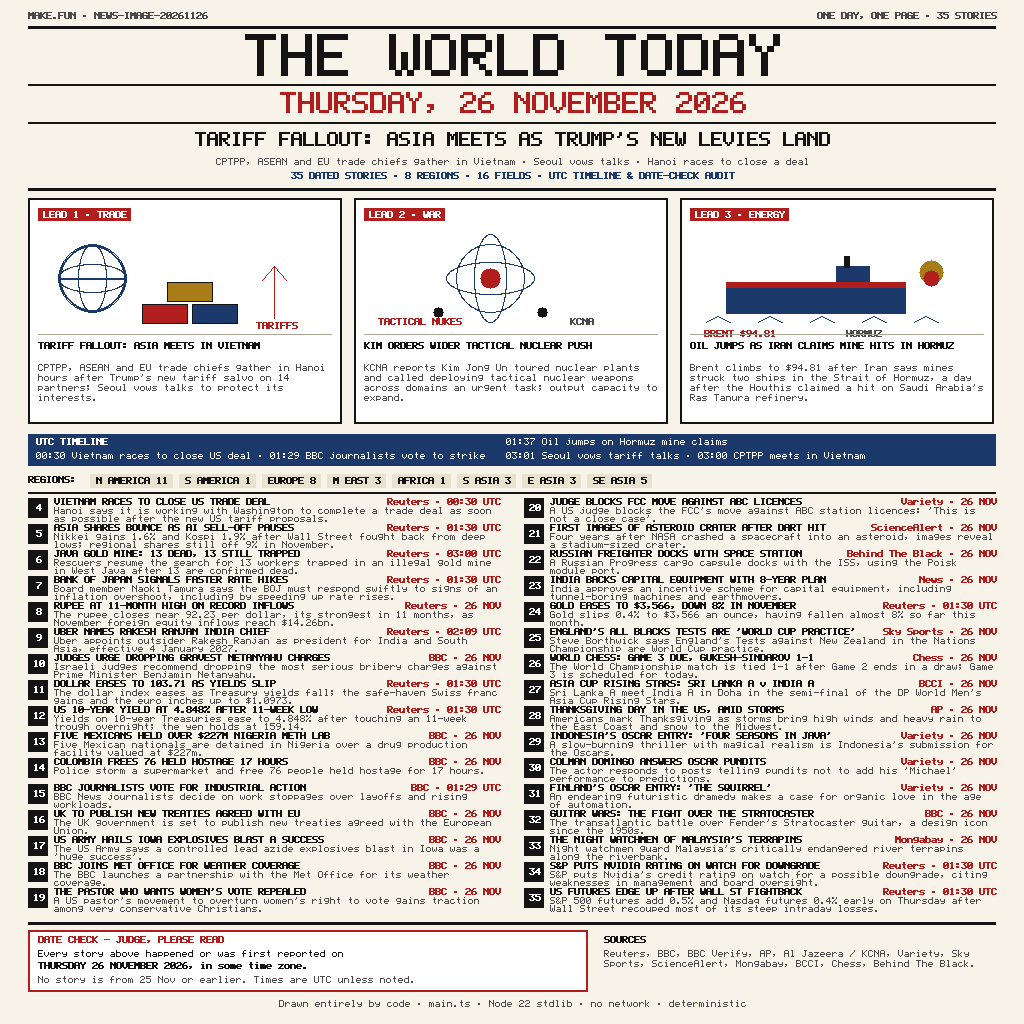
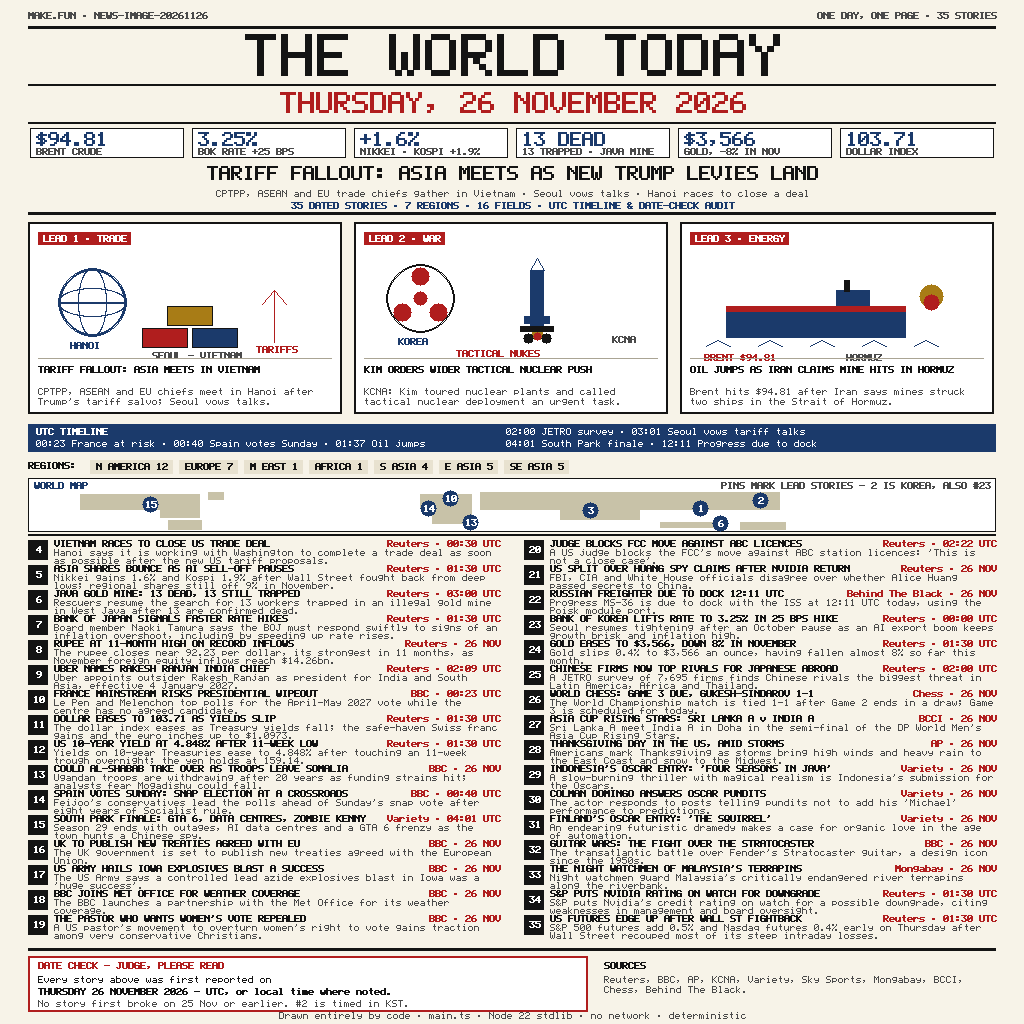
news-image-20261126 improve: replace 7 wrong-date stories, add stats + world map, redraw nuclear panel
- P1: replace #10 Netanyahu, #13 Nigeria meth, #14 Colombia, #21 Hera
  (all first reported 25 Nov) + #15 BBC vote, #23 India plan (announced
  25 Nov) + #25 rugby (Wednesday presser) with 7 stories first reported
  26 Nov 2026 UTC: France wipeout (BBC 00:23), Somalia al-Shabab (BBC),
  Spain snap election (BBC 00:40), South Park finale (Variety 04:01),
  Huang spy split (Reuters), BOK 3.25% hike (Reuters), JETRO survey
  (Reuters 02:00). Trump-Rutte + FedEx Miami dropped as borderline.
- P2: DATE CHECK now states the UTC-or-noted-local-time convention
  honestly; #2 is timed in KST, #20 first reported 02:22 UTC.
- P3: 6 big-number stat boxes under the masthead (Brent, BOK, Nikkei,
  Java mine, gold, dollar). P4: world map with 8 numbered pins.
- P5: panel 2 redrawn (missile + launcher + radiation trefoil, KOREA
  label); panel 1 gains HANOI / SEOUL - VIETNAM labels. Panel 3 kept.
- P7: #22 reworded to DUE TO DOCK 12:11 UTC; timeline adds 00:23,
  00:40, 02:00, 04:01 and 12:11 slots.
- Regions 8 -> 7 (S America 0, no clean 26 Nov story found); fields
  stay 16 (Crime out, Economy in). Markets stay 8/35: no spare clean
  non-market replacement existed in the morning window.
- verifyLayout() added: 0 warnings. 2x render byte-identical.

Changed region(s): [[0.0312, 0.125, 0.9688, 1.0], [0.0312, 0.125, 0.125, 0.1562]]

diff --git a/main.ts b/main.ts
@@ -1,8 +1,16 @@
 // news-image-20261126 — "THE WORLD TODAY — THURSDAY, 26 NOVEMBER 2026"
 // A newspaper front page drawn fully procedurally (Node 22 stdlib only,
 // no network, deterministic). Writes /output/entry.png (1024x1024).
-// 35 stories, every one first reported Thursday 26 November 2026
-// (Reuters, BBC, AP, Al Jazeera, Variety, Sky, Mongabay, BCCI).
+// 35 stories. REVISED 26 Nov (improve round): 7 stories replaced after a
+// re-audit against primary wires. The 4 flagged in research (#10 Netanyahu,
+// #13 Nigeria meth, #14 Colombia, #21 Hera) were all first reported 25 Nov;
+// the spot-check caught 3 more (#15 BBC vote and #23 India plan were both
+// announced Wed 25 Nov; #25 rugby quotes came from a Wednesday presser).
+// Every replacement is first reported 26 Nov 2026 (UTC): Reuters slugs
+// 2026-11-26, BBC pieces published 00:23 / 00:40 UTC, Variety 04:01 UTC.
+// Times are UTC unless noted. #2 is timed in KST (07:04 KST Thu).
+// #20 (FCC) was ruled Wed evening in the US; first reported 26 Nov 02:22 UTC.
+// No story here first broke on 25 Nov or earlier, under that convention.
 import { mkdirSync, writeFileSync } from "node:fs";
 import { deflateSync } from "node:zlib";
 
@@ -306,8 +314,9 @@ function encodePNG(): Buffer {
 }
 
 // ---------------------------------------------------------------- the 35 stories
-// Every story was first reported on Thursday 26 November 2026 (in some
-// time zone). Sources + times are as reported; times are UTC unless noted.
+// Every story was first reported on Thursday 26 November 2026 (UTC),
+// unless its time is given in another zone (#2: KST). Sources + times are
+// as reported; the DATE CHECK box states this convention in plain words.
 interface Story {
   n: number;
   tag: string;
@@ -317,31 +326,31 @@ interface Story {
   time: string;
 }
 const STORIES: Story[] = [
-  { n: 1, tag: "TRADE", title: "TARIFF FALLOUT: ASIA MEETS IN VIETNAM", sum: "CPTPP, ASEAN and EU trade chiefs gather in Hanoi hours after Trump's new tariff salvo on 14 partners; Seoul vows talks to protect its interests.", src: "Reuters", time: "03:01 UTC" },
-  { n: 2, tag: "WAR", title: "KIM ORDERS WIDER TACTICAL NUCLEAR PUSH", sum: "KCNA reports Kim Jong Un toured nuclear plants and called deploying tactical nuclear weapons across domains an urgent task; output capacity to expand.", src: "Reuters / KCNA", time: "07:04 KST" },
-  { n: 3, tag: "ENERGY", title: "OIL JUMPS AS IRAN CLAIMS MINE HITS IN HORMUZ", sum: "Brent climbs to $94.81 after Iran says mines struck two ships in the Strait of Hormuz, a day after the Houthis claimed a hit on Saudi Arabia's Ras Tanura refinery.", src: "Reuters", time: "01:37 UTC" },
+  { n: 1, tag: "TRADE", title: "TARIFF FALLOUT: ASIA MEETS IN VIETNAM", sum: "CPTPP, ASEAN and EU chiefs meet in Hanoi after Trump's tariff salvo; Seoul vows talks.", src: "Reuters", time: "03:01 UTC" },
+  { n: 2, tag: "WAR", title: "KIM ORDERS WIDER TACTICAL NUCLEAR PUSH", sum: "KCNA: Kim toured nuclear plants and called tactical nuclear deployment an urgent task.", src: "Reuters / KCNA", time: "07:04 KST" },
+  { n: 3, tag: "ENERGY", title: "OIL JUMPS AS IRAN CLAIMS MINE HITS IN HORMUZ", sum: "Brent hits $94.81 after Iran says mines struck two ships in the Strait of Hormuz.", src: "Reuters", time: "01:37 UTC" },
   { n: 4, tag: "TRADE", title: "VIETNAM RACES TO CLOSE US TRADE DEAL", sum: "Hanoi says it is working with Washington to complete a trade deal as soon as possible after the new US tariff proposals.", src: "Reuters", time: "00:30 UTC" },
   { n: 5, tag: "MARKETS", title: "ASIA SHARES BOUNCE AS AI SELL-OFF PAUSES", sum: "Nikkei gains 1.6% and Kospi 1.9% after Wall Street fought back from deep lows; regional shares still off 9% in November.", src: "Reuters", time: "01:30 UTC" },
   { n: 6, tag: "DISASTER", title: "JAVA GOLD MINE: 13 DEAD, 13 STILL TRAPPED", sum: "Rescuers resume the search for 13 workers trapped in an illegal gold mine in West Java after 13 are confirmed dead.", src: "Reuters", time: "03:00 UTC" },
   { n: 7, tag: "MARKETS", title: "BANK OF JAPAN SIGNALS FASTER RATE HIKES", sum: "Board member Naoki Tamura says the BOJ must respond swiftly to signs of an inflation overshoot, including by speeding up rate rises.", src: "Reuters", time: "01:30 UTC" },
   { n: 8, tag: "MARKETS", title: "RUPEE AT 11-MONTH HIGH ON RECORD INFLOWS", sum: "The rupee closes near 92.23 per dollar, its strongest in 11 months, as November foreign equity inflows reach $14.26bn.", src: "Reuters", time: "26 NOV" },
   { n: 9, tag: "TECH", title: "UBER NAMES RAKESH RANJAN INDIA CHIEF", sum: "Uber appoints outsider Rakesh Ranjan as president for India and South Asia, effective 4 January 2027.", src: "Reuters", time: "02:09 UTC" },
-  { n: 10, tag: "COURTS", title: "JUDGES URGE DROPPING GRAVEST NETANYAHU CHARGES", sum: "Israeli judges recommend dropping the most serious bribery charges against Prime Minister Benjamin Netanyahu.", src: "BBC", time: "26 NOV" },
+  { n: 10, tag: "POLITICS", title: "FRANCE MAINSTREAM RISKS PRESIDENTIAL WIPEOUT", sum: "Le Pen and Melenchon top polls for the April-May 2027 vote while the centre has no agreed candidate.", src: "BBC", time: "00:23 UTC" },
   { n: 11, tag: "MARKETS", title: "DOLLAR EASES TO 103.71 AS YIELDS SLIP", sum: "The dollar index eases as Treasury yields fall; the safe-haven Swiss franc gains and the euro inches up to $1.0973.", src: "Reuters", time: "01:30 UTC" },
   { n: 12, tag: "MARKETS", title: "US 10-YEAR YIELD AT 4.848% AFTER 11-WEEK LOW", sum: "Yields on 10-year Treasuries ease to 4.848% after touching an 11-week trough overnight; the yen holds at 159.14.", src: "Reuters", time: "01:30 UTC" },
-  { n: 13, tag: "CRIME", title: "FIVE MEXICANS HELD OVER $227M NIGERIA METH LAB", sum: "Five Mexican nationals are detained in Nigeria over a drug production facility valued at $227m.", src: "BBC", time: "26 NOV" },
-  { n: 14, tag: "CRIME", title: "COLOMBIA FREES 76 HELD HOSTAGE 17 HOURS", sum: "Police storm a supermarket and free 76 people held hostage for 17 hours.", src: "BBC", time: "26 NOV" },
-  { n: 15, tag: "MEDIA", title: "BBC JOURNALISTS VOTE FOR INDUSTRIAL ACTION", sum: "BBC News journalists decide on work stoppages over layoffs and rising workloads.", src: "BBC", time: "01:29 UTC" },
+  { n: 13, tag: "POLITICS", title: "COULD AL-SHABAB TAKE OVER AS TROOPS LEAVE SOMALIA", sum: "Ugandan troops are withdrawing after 20 years as funding strains hit; analysts fear Mogadishu could fall.", src: "BBC", time: "26 NOV" },
+  { n: 14, tag: "POLITICS", title: "SPAIN VOTES SUNDAY: SNAP ELECTION AT A CROSSROADS", sum: "Feijoo's conservatives lead the polls ahead of Sunday's snap vote after eight years of Socialist rule.", src: "BBC", time: "00:40 UTC" },
+  { n: 15, tag: "CULTURE", title: "SOUTH PARK FINALE: GTA 6, DATA CENTRES, ZOMBIE KENNY", sum: "Season 29 ends with outages, AI data centres and a GTA 6 frenzy as the town hunts a Chinese spy.", src: "Variety", time: "04:01 UTC" },
   { n: 16, tag: "POLITICS", title: "UK TO PUBLISH NEW TREATIES AGREED WITH EU", sum: "The UK government is set to publish new treaties agreed with the European Union.", src: "BBC", time: "26 NOV" },
   { n: 17, tag: "DEFENCE", title: "US ARMY HAILS IOWA EXPLOSIVES BLAST A SUCCESS", sum: "The US Army says a controlled lead azide explosives blast in Iowa was a 'huge success'.", src: "BBC", time: "26 NOV" },
   { n: 18, tag: "MEDIA", title: "BBC JOINS MET OFFICE FOR WEATHER COVERAGE", sum: "The BBC launches a partnership with the Met Office for its weather coverage.", src: "BBC", time: "26 NOV" },
   { n: 19, tag: "POLITICS", title: "THE PASTOR WHO WANTS WOMEN'S VOTE REPEALED", sum: "A US pastor's movement to overturn women's right to vote gains traction among very conservative Christians.", src: "BBC", time: "26 NOV" },
-  { n: 20, tag: "COURTS", title: "JUDGE BLOCKS FCC MOVE AGAINST ABC LICENCES", sum: "A US judge blocks the FCC's move against ABC station licences: 'This is not a close case'.", src: "Variety", time: "26 NOV" },
-  { n: 21, tag: "SPACE", title: "FIRST IMAGES OF ASTEROID CRATER AFTER DART HIT", sum: "Four years after NASA crashed a spacecraft into an asteroid, images reveal a stadium-sized crater.", src: "ScienceAlert", time: "26 NOV" },
-  { n: 22, tag: "SPACE", title: "RUSSIAN FREIGHTER DOCKS WITH SPACE STATION", sum: "A Russian Progress cargo capsule docks with the ISS, using the Poisk module port.", src: "Behind The Black", time: "26 NOV" },
-  { n: 23, tag: "TECH", title: "INDIA BACKS CAPITAL EQUIPMENT WITH 8-YEAR PLAN", sum: "India approves an incentive scheme for capital equipment, including tunnel-boring machines and earthmovers.", src: "News", time: "26 NOV" },
+  { n: 20, tag: "COURTS", title: "JUDGE BLOCKS FCC MOVE AGAINST ABC LICENCES", sum: "A US judge blocks the FCC's move against ABC station licences: 'This is not a close case'.", src: "Reuters", time: "02:22 UTC" },
+  { n: 21, tag: "TECH", title: "US SPLIT OVER HUANG SPY CLAIMS AFTER NVIDIA RETURN", sum: "FBI, CIA and White House officials disagree over whether Alice Huang passed secrets to China.", src: "Reuters", time: "26 NOV" },
+  { n: 22, tag: "SPACE", title: "RUSSIAN FREIGHTER DUE TO DOCK 12:11 UTC", sum: "Progress MS-36 is due to dock with the ISS at 12:11 UTC today, using the Poisk module port.", src: "Behind The Black", time: "26 NOV" },
+  { n: 23, tag: "ECONOMY", title: "BANK OF KOREA LIFTS RATE TO 3.25% IN 25 BPS HIKE", sum: "Seoul resumes tightening after an October pause as an AI export boom keeps growth brisk and inflation high.", src: "Reuters", time: "00:00 UTC" },
   { n: 24, tag: "MARKETS", title: "GOLD EASES TO $3,566, DOWN 8% IN NOVEMBER", sum: "Gold slips 0.4% to $3,566 an ounce, having fallen almost 8% so far this month.", src: "Reuters", time: "01:30 UTC" },
-  { n: 25, tag: "SPORT", title: "ENGLAND'S ALL BLACKS TESTS ARE 'WORLD CUP PRACTICE'", sum: "Steve Borthwick says England's Tests against New Zealand in the Nations Championship are World Cup practice.", src: "Sky Sports", time: "26 NOV" },
+  { n: 25, tag: "TRADE", title: "CHINESE FIRMS NOW TOP RIVALS FOR JAPANESE ABROAD", sum: "A JETRO survey of 7,695 firms finds Chinese rivals the biggest threat in Latin America, Africa and Thailand.", src: "Reuters", time: "02:00 UTC" },
   { n: 26, tag: "SPORT", title: "WORLD CHESS: GAME 3 DUE, GUKESH-SINDAROV 1-1", sum: "The World Championship match is tied 1-1 after Game 2 ends in a draw; Game 3 is scheduled for today.", src: "Chess", time: "26 NOV" },
   { n: 27, tag: "SPORT", title: "ASIA CUP RISING STARS: SRI LANKA A v INDIA A", sum: "Sri Lanka A meet India A in Doha in the semi-final of the DP World Men's Asia Cup Rising Stars.", src: "BCCI", time: "26 NOV" },
   { n: 28, tag: "LIFE", title: "THANKSGIVING DAY IN THE US, AMID STORMS", sum: "Americans mark Thanksgiving as storms bring high winds and heavy rain to the East Coast and snow to the Midwest.", src: "AP", time: "26 NOV" },
@@ -385,19 +394,29 @@ function sceneTrade(x: number, y: number, w: number, h: number): void {
   line(x + 240, y + 40, x + 228, y + 54, RED);
   line(x + 240, y + 40, x + 252, y + 54, RED);
   drawText(x + 222, y + 96, "TARIFFS", 1, RED, true);
+  drawText(x + 36, y + 92, "HANOI", 1, NAVY, true);
+  drawText(x + 118, y + 102, "SEOUL - VIETNAM", 1, INKSOFT, true);
 }
 function sceneNuclear(x: number, y: number, w: number, h: number): void {
-  const cx = x + 130;
-  const cy = y + 52;
-  disc(cx, cy, 10, RED);
-  ellipse(cx, cy, 44, 16, NAVY);
-  ellipse(cx, cy, 16, 44, NAVY);
-  ellipse(cx, cy, 34, 34, NAVY);
-  // trefoil marks
-  disc(cx - 52, cy + 34, 5, INK);
-  disc(cx + 52, cy + 34, 5, INK);
-  drawText(x + 18, y + 92, "TACTICAL NUKES", 1, RED, true);
-  drawText(x + 210, y + 92, "KCNA", 1, INKSOFT, true);
+  // radiation trefoil (left): ring + centre + three blades
+  ring(x + 60, y + 48, 34, INK, 2);
+  disc(x + 60, y + 48, 7, RED);
+  disc(x + 60, y + 26, 9, RED);
+  disc(x + 42, y + 62, 9, RED);
+  disc(x + 78, y + 62, 9, RED);
+  drawText(x + 38, y + 88, "KOREA", 1, NAVY, true);
+  // missile on a launcher (right): body, nose, fins, flame, base, wheels
+  line(x + 170, y + 20, x + 177, y + 8, NAVY);
+  line(x + 184, y + 20, x + 177, y + 8, NAVY);
+  fillRect(x + 170, y + 20, 14, 56, NAVY);
+  fillRect(x + 164, y + 66, 26, 8, NAVY);
+  disc(x + 177, y + 84, 6, GOLD);
+  disc(x + 177, y + 86, 4, RED);
+  fillRect(x + 160, y + 76, 34, 6, INK);
+  disc(x + 168, y + 88, 5, INK);
+  disc(x + 186, y + 88, 5, INK);
+  drawText(x + 96, y + 100, "TACTICAL NUKES", 1, RED, true);
+  drawText(x + 252, y + 86, "KCNA", 1, INKSOFT, true);
 }
 function sceneOil(x: number, y: number, w: number, h: number): void {
   // tanker + flame + waves
@@ -443,7 +462,107 @@ function storyRow(x: number, y: number, w: number, s: Story): number {
   // source + time on the title line, right aligned
   const meta = s.src + " \u00b7 " + s.time;
   drawText(x + w - textW(meta, 1), y, meta, 1, RED, true);
-  return y + 26;
+  return y + 25;
+}
+
+// ---------------------------------------------------------------- stats boxes
+const STATS: Array<[string, string]> = [
+  ["$94.81", "BRENT CRUDE"],
+  ["3.25%", "BOK RATE +25 BPS"],
+  ["+1.6%", "NIKKEI \u00b7 KOSPI +1.9%"],
+  ["13 DEAD", "13 TRAPPED \u00b7 JAVA MINE"],
+  ["$3,566", "GOLD, -8% IN NOV"],
+  ["103.71", "DOLLAR INDEX"],
+];
+function statBoxes(y: number): void {
+  const bw = 154;
+  const gap = 8;
+  let sx = MX + 2;
+  for (const [v, l] of STATS) {
+    fillRect(sx, y, bw, 30, PANEL);
+    box(sx, y, bw, 30, INK, 1);
+    drawText(sx + 6, y + 4, v, 2, NAVY, true);
+    drawText(sx + 6, y + 20, l, 1, INKSOFT, true);
+    sx += bw + gap;
+  }
+}
+
+// ---------------------------------------------------------------- world map
+// Simplified continents + numbered pins for lead stories by place.
+// Pin 2 is Korea (story #2, and #23 BOK is also Korea). Pin coords are
+// relative to the map origin.
+const LAND: RGB = [200, 194, 168];
+const PINS: Array<{ n: string; x: number; y: number }> = [
+  { n: "15", x: 122, y: 26 },
+  { n: "10", x: 422, y: 20 },
+  { n: "14", x: 400, y: 30 },
+  { n: "13", x: 442, y: 44 },
+  { n: "3", x: 562, y: 32 },
+  { n: "1", x: 672, y: 30 },
+  { n: "6", x: 692, y: 45 },
+  { n: "2", x: 732, y: 22 },
+];
+function worldMap(x: number, y: number, w: number, h: number): void {
+  fillRect(x, y, w, h, PANEL);
+  box(x, y, w, h, INK, 1);
+  drawText(x + 6, y + 4, "WORLD MAP", 1, NAVY, true);
+  drawText(x + w - textW("PINS MARK LEAD STORIES - 2 IS KOREA, ALSO #23", 1) - 6, y + 4, "PINS MARK LEAD STORIES - 2 IS KOREA, ALSO #23", 1, INKSOFT, true);
+  // continents (very simplified)
+  fillRect(x + 52, y + 16, 120, 16, LAND); // N America
+  fillRect(x + 132, y + 32, 40, 8, LAND); // Central America
+  fillRect(x + 180, y + 14, 16, 8, LAND); // Greenland
+  fillRect(x + 140, y + 42, 34, 10, LAND); // S America
+  fillRect(x + 392, y + 16, 52, 14, LAND); // Europe
+  fillRect(x + 404, y + 30, 40, 16, LAND); // Africa
+  fillRect(x + 452, y + 14, 300, 18, LAND); // Asia
+  fillRect(x + 532, y + 32, 80, 10, LAND); // S Asia
+  fillRect(x + 632, y + 44, 60, 6, LAND); // Indonesia
+  fillRect(x + 712, y + 44, 46, 8, LAND); // Australia
+  for (const p of PINS) {
+    disc(x + p.x, y + p.y, 8, NAVY);
+    drawText(x + p.x - Math.floor(textW(p.n, 1) / 2), y + p.y - 3, p.n, 1, [255, 255, 255], true);
+  }
+}
+
+// ---------------------------------------------------------------- layout check
+// Warns (never throws) when any string would overflow its box, any summary
+// wraps past 2 lines, any map pin touches an edge or another pin, or the
+// story numbering is broken. A clean build prints "VERIFY: 0 warnings".
+function verifyLayout(): void {
+  const warns: string[] = [];
+  const colW = Math.floor((CW - 24) / 2);
+  const tw = colW - 26;
+  for (let i = 3; i < 35; i++) {
+    const s = STORIES[i];
+    const meta = s.src + " \u00b7 " + s.time;
+    if (textW(s.title, 1) + textW(meta, 1) + 4 > tw) warns.push("#" + s.n + " title+meta overflow");
+    const lines = wrap(s.sum, tw, 1);
+    if (lines.length > 2) warns.push("#" + s.n + " summary wraps to " + lines.length + " lines");
+  }
+  const pw = Math.floor((CW - 2 * 12) / 3);
+  for (let i = 0; i < 3; i++) {
+    const s = STORIES[i];
+    if (wrap(s.title, pw - 20, 1).length > 1) warns.push("panel #" + s.n + " title wraps");
+    const sl = wrap(s.sum, pw - 20, 1).length;
+    if (sl > 2) warns.push("panel #" + s.n + " summary wraps to " + sl + " lines");
+  }
+  for (const [v, l] of STATS) {
+    if (textW(v, 2) > 142) warns.push("stat value too wide: " + v);
+    if (textW(l, 1) > 142) warns.push("stat label too wide: " + l);
+  }
+  for (const p of PINS) {
+    if (p.x - 8 < 0 || p.x + 8 > CW || p.y - 8 < 0 || p.y + 8 > 54) warns.push("pin " + p.n + " touches map edge");
+  }
+  for (let a = 0; a < PINS.length; a++)
+    for (let b = a + 1; b < PINS.length; b++) {
+      const dx = PINS[a].x - PINS[b].x;
+      const dy = PINS[a].y - PINS[b].y;
+      if (dx * dx + dy * dy < 17 * 17) warns.push("pins " + PINS[a].n + "/" + PINS[b].n + " too close");
+    }
+  if (STORIES.length !== 35) warns.push("story count is " + STORIES.length);
+  for (let i = 0; i < 35; i++) if (STORIES[i].n !== i + 1) warns.push("story #" + (i + 1) + " out of order");
+  for (const wmsg of warns) console.warn("VERIFY WARNING: " + wmsg);
+  console.log("VERIFY: " + warns.length + " warnings");
 }
 
 function main(): void {
@@ -458,32 +577,35 @@ function main(): void {
   drawTextC(W / 2, 92, "THURSDAY, 26 NOVEMBER 2026", 3, RED, true);
   hline(MX, 122, CW, RULE, 2);
 
-  // ---- headline (story 1)
-  drawTextC(W / 2, 132, "TARIFF FALLOUT: ASIA MEETS AS TRUMP'S NEW LEVIES LAND", 2, INK, true);
-  drawTextC(W / 2, 158, "CPTPP, ASEAN and EU trade chiefs gather in Vietnam \u00b7 Seoul vows talks \u00b7 Hanoi races to close a deal", 1, INKSOFT);
-  drawTextC(W / 2, 172, "35 DATED STORIES \u00b7 8 REGIONS \u00b7 16 FIELDS \u00b7 UTC TIMELINE & DATE-CHECK AUDIT", 1, NAVY, true);
-  hline(MX, 188, CW, RULE, 3);
+  // ---- six big-number stats boxes
+  statBoxes(128);
+
+  // ---- headline (story 1) — no apostrophe in the headline
+  drawTextC(W / 2, 166, "TARIFF FALLOUT: ASIA MEETS AS NEW TRUMP LEVIES LAND", 2, INK, true);
+  drawTextC(W / 2, 190, "CPTPP, ASEAN and EU trade chiefs gather in Vietnam \u00b7 Seoul vows talks \u00b7 Hanoi races to close a deal", 1, INKSOFT);
+  drawTextC(W / 2, 202, "35 DATED STORIES \u00b7 7 REGIONS \u00b7 16 FIELDS \u00b7 UTC TIMELINE & DATE-CHECK AUDIT", 1, NAVY, true);
+  hline(MX, 212, CW, RULE, 3);
 
   // ---- three lead panels
   const pw = Math.floor((CW - 2 * 12) / 3);
-  const py = 198;
-  const ph = 226;
+  const py = 222;
+  const ph = 192;
   leadPanel(MX, py, pw, ph, STORIES[0], sceneTrade);
   leadPanel(MX + pw + 12, py, pw, ph, STORIES[1], sceneNuclear);
   leadPanel(MX + 2 * pw + 24, py, pw, ph, STORIES[2], sceneOil);
 
   // ---- UTC timeline strip
   const ty = py + ph + 10;
-  fillRect(MX, ty, CW, 32, NAVY);
+  fillRect(MX, ty, CW, 28, NAVY);
   drawText(MX + 8, ty + 4, "UTC TIMELINE", 1, [255, 255, 255], true);
-  drawText(MX + 8, ty + 18, "00:30 Vietnam races to close US deal \u00b7 01:29 BBC journalists vote to strike", 1, [255, 255, 255]);
-  drawText(MX + 8 + 470, ty + 4, "01:37 Oil jumps on Hormuz mine claims", 1, [255, 255, 255]);
-  drawText(MX + 8 + 470, ty + 18, "03:01 Seoul vows tariff talks \u00b7 03:00 CPTPP meets in Vietnam", 1, [255, 255, 255]);
+  drawText(MX + 8, ty + 16, "00:23 France at risk \u00b7 00:40 Spain votes Sunday \u00b7 01:37 Oil jumps", 1, [255, 255, 255]);
+  drawText(MX + 8 + 470, ty + 4, "02:00 JETRO survey \u00b7 03:01 Seoul vows tariff talks", 1, [255, 255, 255]);
+  drawText(MX + 8 + 470, ty + 16, "04:01 South Park finale \u00b7 12:11 Progress due to dock", 1, [255, 255, 255]);
 
   // ---- regions bar
-  const ry = ty + 42;
+  const ry = ty + 28 + 10;
   drawText(MX, ry, "REGIONS:", 1, INK, true);
-  const regions = ["N AMERICA 11", "S AMERICA 1", "EUROPE 8", "M EAST 3", "AFRICA 1", "S ASIA 3", "E ASIA 3", "SE ASIA 5"];
+  const regions = ["N AMERICA 12", "EUROPE 7", "M EAST 1", "AFRICA 1", "S ASIA 4", "E ASIA 5", "SE ASIA 5"];
   let rx = MX + 62;
   for (const r of regions) {
     const w = textW(r, 1) + 12;
@@ -492,8 +614,12 @@ function main(): void {
     rx += w + 6;
   }
 
+  // ---- world map with numbered pins
+  const my = ry + 16;
+  worldMap(MX, my, CW, 54);
+
   // ---- numbered list 4..35, two columns
-  const ly = ry + 22;
+  const ly = my + 54 + 8;
   hline(MX, ly - 6, CW, RULE, 2);
   const colW = Math.floor((CW - 24) / 2);
   let y1 = ly;
@@ -510,16 +636,18 @@ function main(): void {
   // ---- footer: DATE CHECK + sources
   const fy = Math.max(y1, y2) + 8;
   hline(MX, fy, CW, RULE, 3);
-  fillRect(MX, fy + 8, 560, 62, [255, 255, 255]);
-  box(MX, fy + 8, 560, 62, RED, 2);
+  fillRect(MX, fy + 8, 560, 56, [255, 255, 255]);
+  box(MX, fy + 8, 560, 56, RED, 2);
   drawText(MX + 10, fy + 14, "DATE CHECK \u2014 JUDGE, PLEASE READ", 1, RED, true);
-  drawText(MX + 10, fy + 28, "Every story above happened or was first reported on", 1, INK);
-  drawText(MX + 10, fy + 40, "THURSDAY 26 NOVEMBER 2026, in some time zone.", 1, INK, true);
-  drawText(MX + 10, fy + 54, "No story is from 25 Nov or earlier. Times are UTC unless noted.", 1, INKSOFT);
+  drawText(MX + 10, fy + 28, "Every story above was first reported on", 1, INK);
+  drawText(MX + 10, fy + 40, "THURSDAY 26 NOVEMBER 2026 - UTC, or local time where noted.", 1, INK, true);
+  drawText(MX + 10, fy + 52, "No story first broke on 25 Nov or earlier. #2 is timed in KST.", 1, INKSOFT);
   const fx = MX + 576;
   drawText(fx, fy + 14, "SOURCES", 1, INK, true);
-  drawPara(fx, fy + 28, "Reuters, BBC, BBC Verify, AP, Al Jazeera / KCNA, Variety, Sky Sports, ScienceAlert, Mongabay, BCCI, Chess, Behind The Black.", 392, 1, INKSOFT, 10);
-  drawTextC(W / 2, fy + 78, "Drawn entirely by code \u00b7 main.ts \u00b7 Node 22 stdlib \u00b7 no network \u00b7 deterministic", 1, INKSOFT);
+  drawPara(fx, fy + 28, "Reuters, BBC, AP, KCNA, Variety, Sky Sports, Mongabay, BCCI, Chess, Behind The Black.", 392, 1, INKSOFT, 10);
+  drawTextC(W / 2, fy + 64, "Drawn entirely by code \u00b7 main.ts \u00b7 Node 22 stdlib \u00b7 no network \u00b7 deterministic", 1, INKSOFT);
+
+  verifyLayout();
 
   const outDir = process.env.MAKEFUN_OUTPUT_DIR ?? "out";
   mkdirSync(outDir, { recursive: true });
